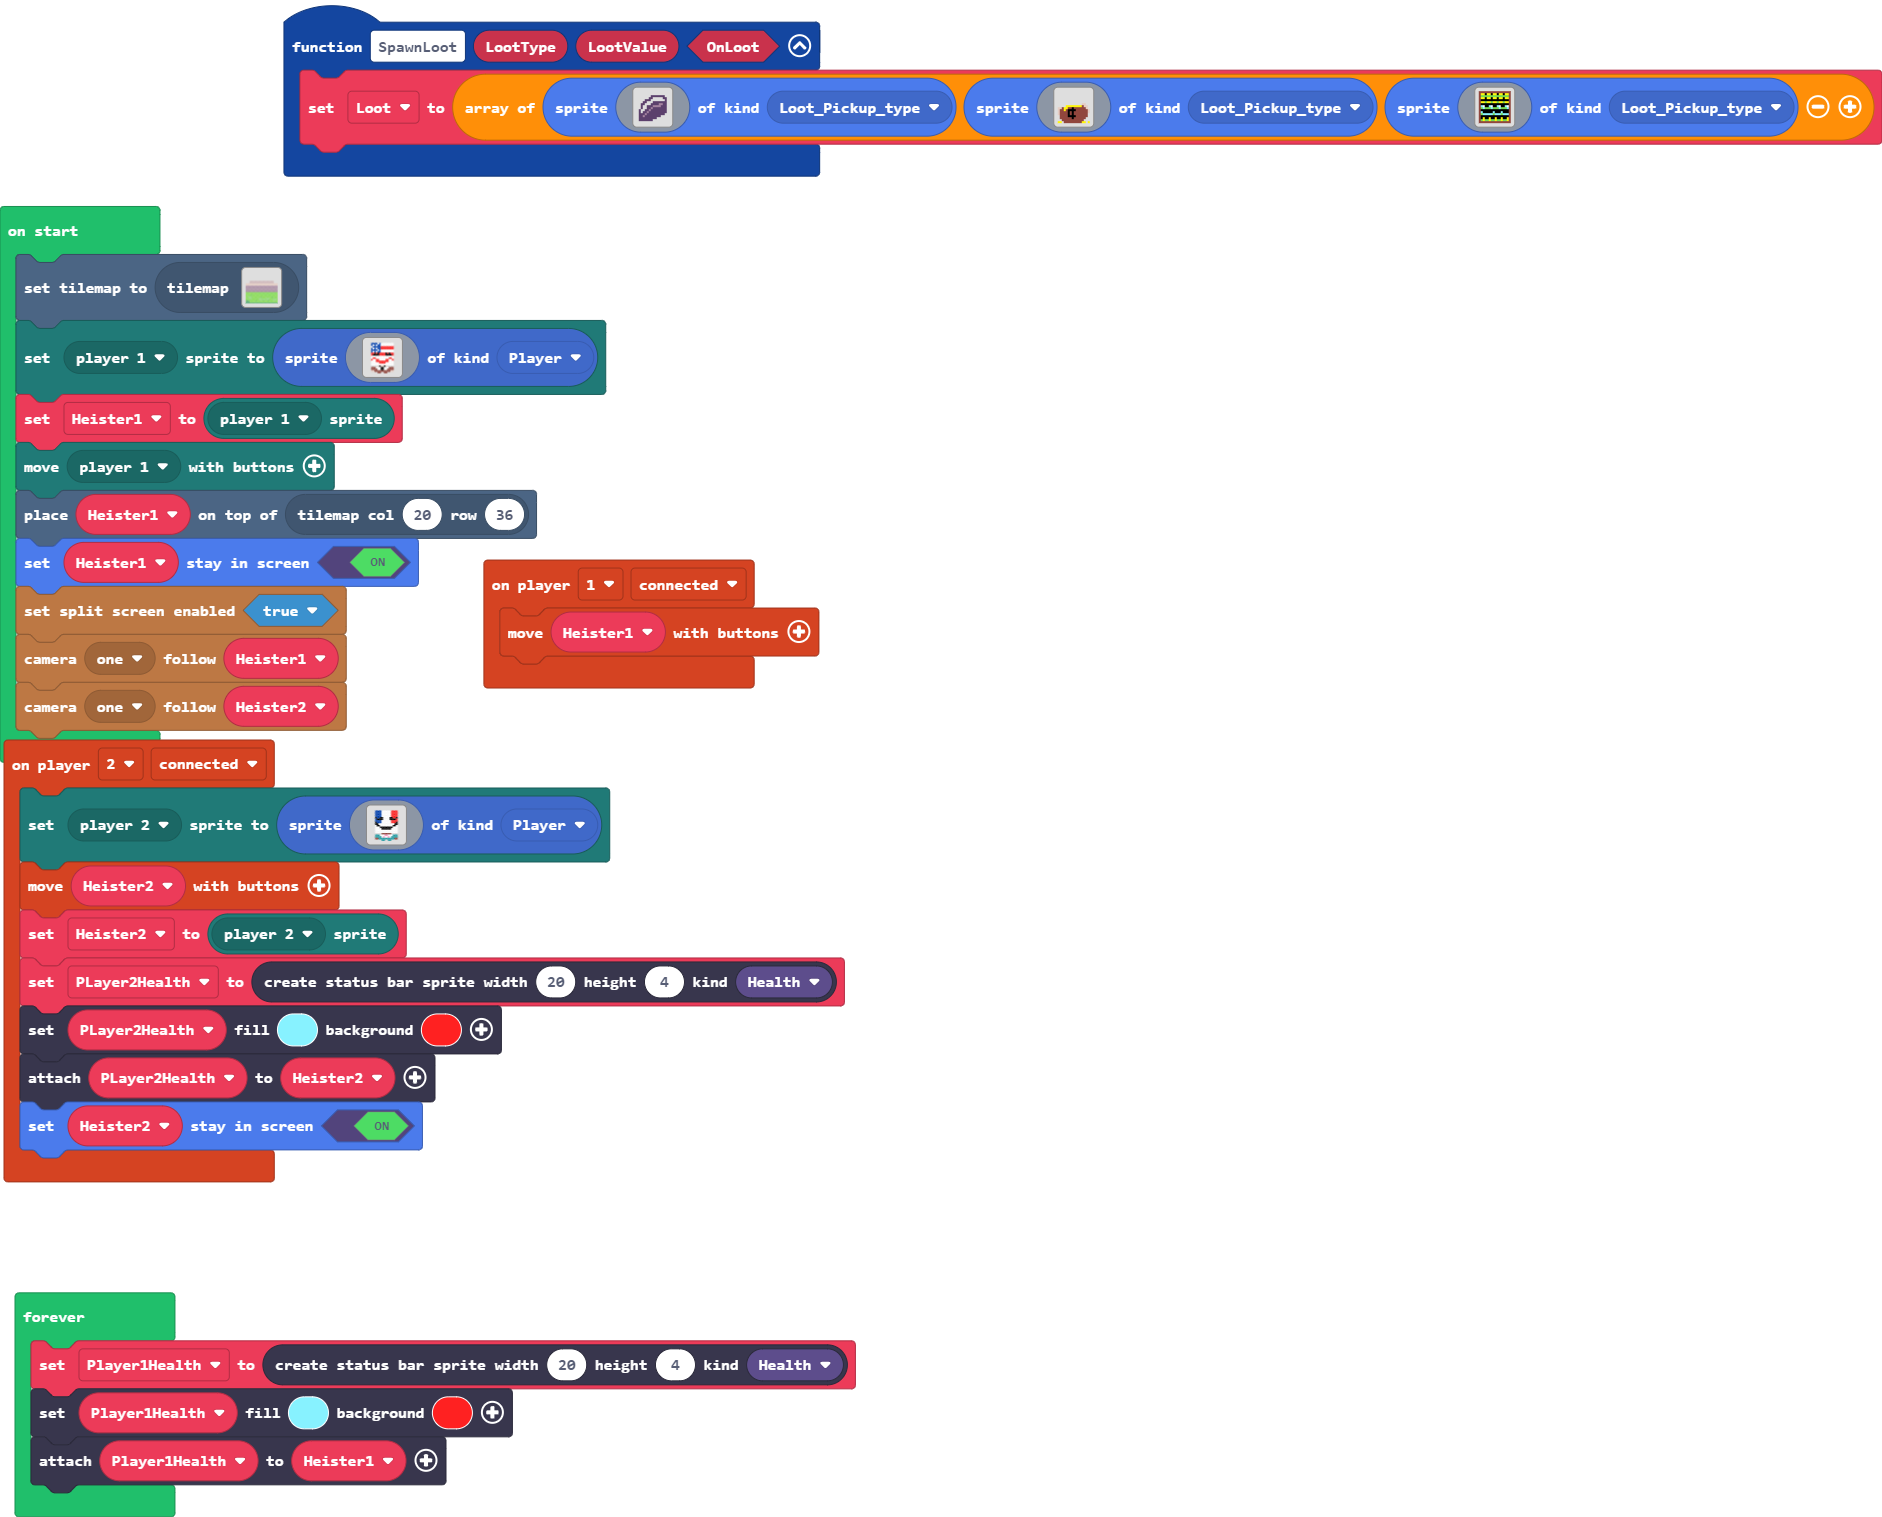
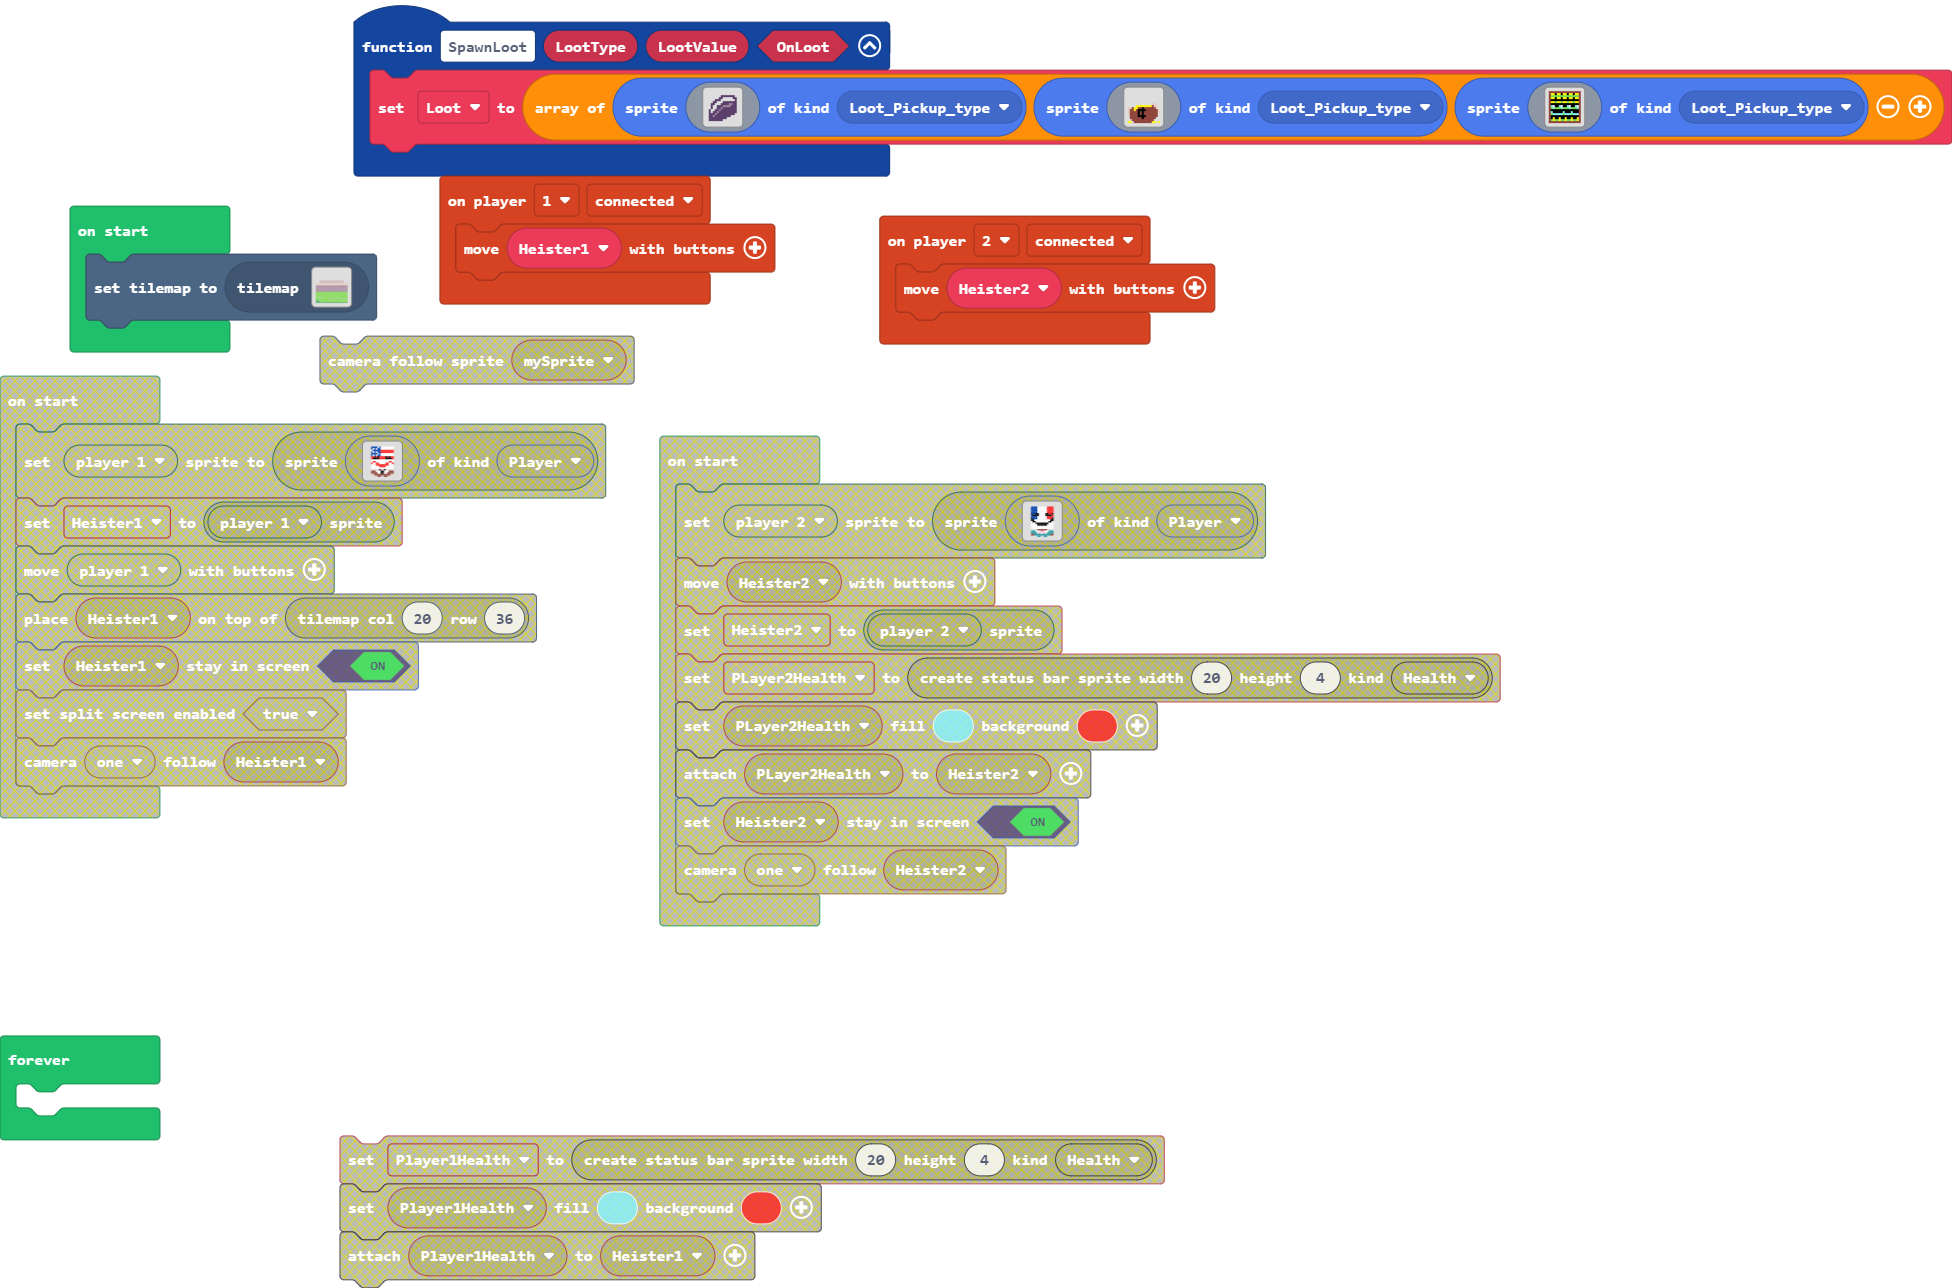
Update main.blocks, main.ts, tilemap.g.jres, tilemap.g.ts

diff --git a/tilemap.g.ts b/tilemap.g.ts
@@ -344,49 +344,6 @@ namespace myTiles {
 . . . . . . . . . . . . . . . . 
 . . . . . . . . . . . . . . . . 
 `, [myTiles.transparency16], TileScale.Sixteen);
-            case "Prototype_bank_entrance":
-            case "Prototype_bank_entrance1":return tiles.createTilemap(hex`2800280000000000000000000000000000000000000000000000000000000000000000000000000000000000000000000000000000000000000000000000000000000000000000000000000000000000000000000000000000000000000000000000000000000000000000000000000000000000000000000000000000000000000000000000000000000000000000000000000000000000000000000000000000000000000000000000000000000000000000000000000000000000000000000000000000000000000000000000000000000000000000000000000000000000000000000000000000000000000000000000000000000000000000000000000000000000000000000000000000000000000000000000000000000000000000000000000000000000000000000000000000000000000000000000000000000000000000000000000000000000000000000000000000000000000000000000000000000000000000000000000000000000000000000000000000000000000000000000000000000000000000000000000000000000000000000000000000000000000000000000000000000000000000000000000000000000000000000000000000000000000000000000000000000000000000000000000000000000000000000000000000000000000303030303030303030303030303030303030303030303030303030303030000000000000000000003030303030303030303030303030303030303030303030303030303030300000000000000000000030303030303030303030303030303030303030303030303030303030303000000000001010101010101010101010101010101010101010101010101010101010101010101010101010101010101010101010101010101010101010101010101010101010101010101010101010101010101010101010101010101010101010101010101010101010101010101010101010101010101010101010108080808080808080808080808080808080808080808080808080808080808080808080808080808080808080808080808080808080808080808080808080808080808080808080808080808080808080909090909090909090909090909090909090909090909090909090909090909090909090909090909090909090909090909090909090909090909090909090909090909090909090909090909090909090909090909090909090909090909090909090909090909090909090909090909090909090909090909090909090909090909090909090909090909090909090909090909090909090909090909090908080808080808080808080808080808080808080808080808080808080808080808080808080808080808080808080808080808080808080808080808080808080808080808080808080808080808080606060605050505060606060606060606060606060606060606060606060606060606060606060606050505050505050505050505050506060606060606060606060606060606060606060606060606050505050505050505050505050505050506060606060606060606060606060606060606060606060505050505050504050505050505050505050506060606060606060606060606060606050505050505050505050606060505050505050505050505050505050505050606060606060606050505050505050505020202060605050505050505050505050505050505050505050505050505050505050505050505050202020202060505050505050505050504050505050505050505050505050405050506060505050505020202020605050505050505050202020606050505020202020206060606060606060605050505050202020606050505050505050202020202020202020602020202020505050202020202050505050505050606060505050505050505020202020202020202020202060605050502020202020505040406060605050505050505040505050502020606040606060606040606050506020202020505050404040405060606060606050505050606060605050505050505060606060506050505050505050404040404050505050505050606060605050505050505050505050505050505050505050505050507070707070707070707070707070707070707070707070707070707070707070707070707070707`, img`
-........................................
-........................................
-........................................
-........................................
-........................................
-........................................
-........................................
-........................................
-........................................
-........................................
-........................................
-........................................
-........................................
-........................................
-........................................
-........................................
-........................................
-........................................
-........................................
-........................................
-........................................
-........................................
-........................................
-........................................
-........................................
-........................................
-........................................
-........................................
-........................................
-.......2................................
-........................................
-........................................
-...................2.............2......
-........................................
-........................................
-........................................
-.22..........2........2.....2...........
-.2222...................................
-22222...................................
-2222222222222222222222222222222222222222
-`, [myTiles.transparency16,myTiles.tile14,sprites.castle.tileGrass2,myTiles.tile24,myTiles.tile25,sprites.castle.tileGrass3,sprites.castle.tileGrass1,sprites.builtin.forestTiles0,myTiles.tile26,sprites.vehicle.roadHorizontal], TileScale.Sixteen);
             case "level16":
             case "level16":return tiles.createTilemap(hex`1000100000000000000000000000000000000000000000000000000000000000000000000000000000000000000000000000000000000000000000000000000000000000000000000000000000000000000000000000000000000000000000000000000000000000000000000000000000000000000000000000000000000000000000000000000000000000000000000000000000000000000000000000000000000000000000000000000000000000000000000000000000000000000000000000000000000000000000000000000000000000000000000000000000000000000000000000000000000000000000000000000000000000000000000000000000000000`, img`
 . . . . . . . . . . . . . . . . 
@@ -465,6 +422,106 @@ namespace myTiles {
 `, [myTiles.transparency16], TileScale.Sixteen);
             case "level20":
             case "level20":return tiles.createTilemap(hex`1000100000000000000000000000000000000000000000000000000000000000000000000000000000000000000000000000000000000000000000000000000000000000000000000000000000000000000000000000000000000000000000000000000000000000000000000000000000000000000000000000000000000000000000000000000000000000000000000000000000000000000000000000000000000000000000000000000000000000000000000000000000000000000000000000000000000000000000000000000000000000000000000000000000000000000000000000000000000000000000000000000000000000000000000000000000000000`, img`
+. . . . . . . . . . . . . . . . 
+. . . . . . . . . . . . . . . . 
+. . . . . . . . . . . . . . . . 
+. . . . . . . . . . . . . . . . 
+. . . . . . . . . . . . . . . . 
+. . . . . . . . . . . . . . . . 
+. . . . . . . . . . . . . . . . 
+. . . . . . . . . . . . . . . . 
+. . . . . . . . . . . . . . . . 
+. . . . . . . . . . . . . . . . 
+. . . . . . . . . . . . . . . . 
+. . . . . . . . . . . . . . . . 
+. . . . . . . . . . . . . . . . 
+. . . . . . . . . . . . . . . . 
+. . . . . . . . . . . . . . . . 
+. . . . . . . . . . . . . . . . 
+`, [myTiles.transparency16], TileScale.Sixteen);
+            case "level21":
+            case "level21":return tiles.createTilemap(hex`1000100000000000000000000000000000000000000000000000000000000000000000000000000000000000000000000000000000000000000000000000000000000000000000000000000000000000000000000000000000000000000000000000000000000000000000000000000000000000000000000000000000000000000000000000000000000000000000000000000000000000000000000000000000000000000000000000000000000000000000000000000000000000000000000000000000000000000000000000000000000000000000000000000000000000000000000000000000000000000000000000000000000000000000000000000000000000`, img`
+. . . . . . . . . . . . . . . . 
+. . . . . . . . . . . . . . . . 
+. . . . . . . . . . . . . . . . 
+. . . . . . . . . . . . . . . . 
+. . . . . . . . . . . . . . . . 
+. . . . . . . . . . . . . . . . 
+. . . . . . . . . . . . . . . . 
+. . . . . . . . . . . . . . . . 
+. . . . . . . . . . . . . . . . 
+. . . . . . . . . . . . . . . . 
+. . . . . . . . . . . . . . . . 
+. . . . . . . . . . . . . . . . 
+. . . . . . . . . . . . . . . . 
+. . . . . . . . . . . . . . . . 
+. . . . . . . . . . . . . . . . 
+. . . . . . . . . . . . . . . . 
+`, [myTiles.transparency16], TileScale.Sixteen);
+            case "Prototype_bank_entrance":
+            case "Prototype_bank_entrance1":return tiles.createTilemap(hex`2800280000000000000000000000000000000000000000000000000000000000000000000000000000000000000000000000000000000000000000000000000000000000000000000000000000000000000000000000000000000000000000000000000000000000000000000000000000000000000000000000000000000000000000000000000000000000000000000000000000000000000000000000000000000000000000000000000000000000000000000000000000000000000000000000000000000000000000000000000000000000000000000000000000000000000000000000000000000000000000000000000000000000000000000000000000000000000000000000000000000000000000000000000000000000000000000000000000000000000000000000000000000000000000000000000000000000000000000000000000000000000000000000000000000000000000000000000000000000000000000000000000000000000000000000000000000000000000000000000000000000000000000000000000000000000000000000000000000000000000000000000000000000000000000000000000000000000000000000000000000000000000000000000000000000000000000000000000000000000000000000000000000000000303030303030303030303030303030303030303030303030303030303030000000000000000000003030303030303030303030303030303030303030303030303030303030300000000000000000000030303030303030303030303030303030303030303030303030303030303000000000001010101010101010101010101010101010101010101010101010101010101010101010101010101010101010101010101010101010101010101010101010101010101010101010101010101010101010101010101010101010101010101010101010101010101010101010101010101010101010101010108080808080808080808080808080808080808080808080808080808080808080808080808080808080808080808080808080808080808080808080808080808080808080808080808080808080808080909090909090909090909090909090909090909090909090909090909090909090909090909090909090909090909090909090909090909090909090909090909090909090909090909090909090909090909090909090909090909090909090909090909090909090909090909090909090909090909090909090909090909090909090909090909090909090909090909090909090909090909090909090908080808080808080808080808080808080808080808080808080808080808080808080808080808080808080808080808080808080808080808080808080808080808080808080808080808080808080606060605050505060606060606060606060606060606060606060606060606060606060606060606050505050505050505050505050506060606060606060606060606060606060606060606060606050505050505050505050505050505050506060606060606060606060606060606060606060606060505050505050504050505050505050505050506060606060606060606060606060606050505050505050505050606060505050505050505050505050505050505050606060606060606050505050505050505020202060605050505050505050505050505050505050505050505050505050505050505050505050202020202060505050505050505050504050505050505050505050505050405050506060505050505020202020605050505050505050202020606050505020202020206060606060606060605050505050202020606050505050505050202020202020202020602020202020505050202020202050505050505050606060505050505050505020202020202020202020202060605050502020202020505040406060605050505050505040505050502020606040606060606040606050506020202020505050404040405060606060606050505050606060605050505050505060606060506050505050505050404040404050505050505050606060605050505050505050505050505050505050505050505050507070707070707070707070707070707070707070707070707070707070707070707070707070707`, img`
+........................................
+........................................
+........................................
+........................................
+........................................
+........................................
+........................................
+........................................
+........................................
+........................................
+........................................
+........................................
+........................................
+........................................
+........................................
+........................................
+........................................
+........................................
+........................................
+........................................
+........................................
+........................................
+........................................
+........................................
+........................................
+........................................
+........................................
+........................................
+........................................
+.......2................................
+........................................
+........................................
+...................2.............2......
+........................................
+........................................
+........................................
+.22..........2........2.....2...........
+.2222...................................
+22222...................................
+2222222222222222222222222222222222222222
+`, [myTiles.transparency16,myTiles.tile14,sprites.castle.tileGrass2,myTiles.tile24,myTiles.tile25,sprites.castle.tileGrass3,sprites.castle.tileGrass1,sprites.builtin.forestTiles0,myTiles.tile26,sprites.vehicle.roadHorizontal], TileScale.Sixteen);
+            case "level22":
+            case "level22":return tiles.createTilemap(hex`1000100000000000000000000000000000000000000000000000000000000000000000000000000000000000000000000000000000000000000000000000000000000000000000000000000000000000000000000000000000000000000000000000000000000000000000000000000000000000000000000000000000000000000000000000000000000000000000000000000000000000000000000000000000000000000000000000000000000000000000000000000000000000000000000000000000000000000000000000000000000000000000000000000000000000000000000000000000000000000000000000000000000000000000000000000000000000`, img`
+. . . . . . . . . . . . . . . . 
+. . . . . . . . . . . . . . . . 
+. . . . . . . . . . . . . . . . 
+. . . . . . . . . . . . . . . . 
+. . . . . . . . . . . . . . . . 
+. . . . . . . . . . . . . . . . 
+. . . . . . . . . . . . . . . . 
+. . . . . . . . . . . . . . . . 
+. . . . . . . . . . . . . . . . 
+. . . . . . . . . . . . . . . . 
+. . . . . . . . . . . . . . . . 
+. . . . . . . . . . . . . . . . 
+. . . . . . . . . . . . . . . . 
+. . . . . . . . . . . . . . . . 
+. . . . . . . . . . . . . . . . 
+. . . . . . . . . . . . . . . . 
+`, [myTiles.transparency16], TileScale.Sixteen);
+            case "level23":
+            case "level23":return tiles.createTilemap(hex`1000100000000000000000000000000000000000000000000000000000000000000000000000000000000000000000000000000000000000000000000000000000000000000000000000000000000000000000000000000000000000000000000000000000000000000000000000000000000000000000000000000000000000000000000000000000000000000000000000000000000000000000000000000000000000000000000000000000000000000000000000000000000000000000000000000000000000000000000000000000000000000000000000000000000000000000000000000000000000000000000000000000000000000000000000000000000000`, img`
 . . . . . . . . . . . . . . . . 
 . . . . . . . . . . . . . . . . 
 . . . . . . . . . . . . . . . . 

diff --git a/main.ts b/main.ts
@@ -5,33 +5,15 @@ function SpawnLoot (LootType: string, LootValue: number, OnLoot: boolean) {
     Loot = [sprites.create(assets.image`Money_Bag`, SpriteKind.Loot_Pickup_type), sprites.create(assets.image`Bag_of_GOLD`, SpriteKind.Loot_Pickup_type), sprites.create(assets.image`Jewlery_Box`, SpriteKind.Loot_Pickup_type)]
 }
 controller.player2.onEvent(ControllerEvent.Connected, function () {
-    mp.setPlayerSprite(mp.playerSelector(mp.PlayerNumber.Two), sprites.create(assets.image`Luxembourg`, SpriteKind.Player))
+    let Heister2: Sprite = null
     controller.moveSprite(Heister2)
-    Heister2 = mp.getPlayerSprite(mp.playerSelector(mp.PlayerNumber.Two))
-    PLayer2Health = statusbars.create(20, 4, StatusBarKind.Health)
-    PLayer2Health.setColor(9, 2)
-    PLayer2Health.attachToSprite(Heister2)
-    Heister2.setStayInScreen(true)
 })
 controller.player1.onEvent(ControllerEvent.Connected, function () {
+    let Heister1: Sprite = null
     controller.moveSprite(Heister1)
 })
-let Player1Health: StatusBarSprite = null
-let PLayer2Health: StatusBarSprite = null
 let Loot: Sprite[] = []
-let Heister2: Sprite = null
-let Heister1: Sprite = null
 tiles.setCurrentTilemap(tilemap`Prototype_bank_entrance`)
-mp.setPlayerSprite(mp.playerSelector(mp.PlayerNumber.One), sprites.create(assets.image`Austin`, SpriteKind.Player))
-Heister1 = mp.getPlayerSprite(mp.playerSelector(mp.PlayerNumber.One))
-mp.moveWithButtons(mp.playerSelector(mp.PlayerNumber.One))
-tiles.placeOnTile(Heister1, tiles.getTileLocation(20, 36))
-Heister1.setStayInScreen(true)
-splitScreen.setSplitScreenEnabled(true)
-splitScreen.cameraFollowSprite(splitScreen.Camera.Camera1, Heister1)
-splitScreen.cameraFollowSprite(splitScreen.Camera.Camera1, Heister2)
 forever(function () {
-    Player1Health = statusbars.create(20, 4, StatusBarKind.Health)
-    Player1Health.setColor(9, 2)
-    Player1Health.attachToSprite(Heister1)
+	
 })
